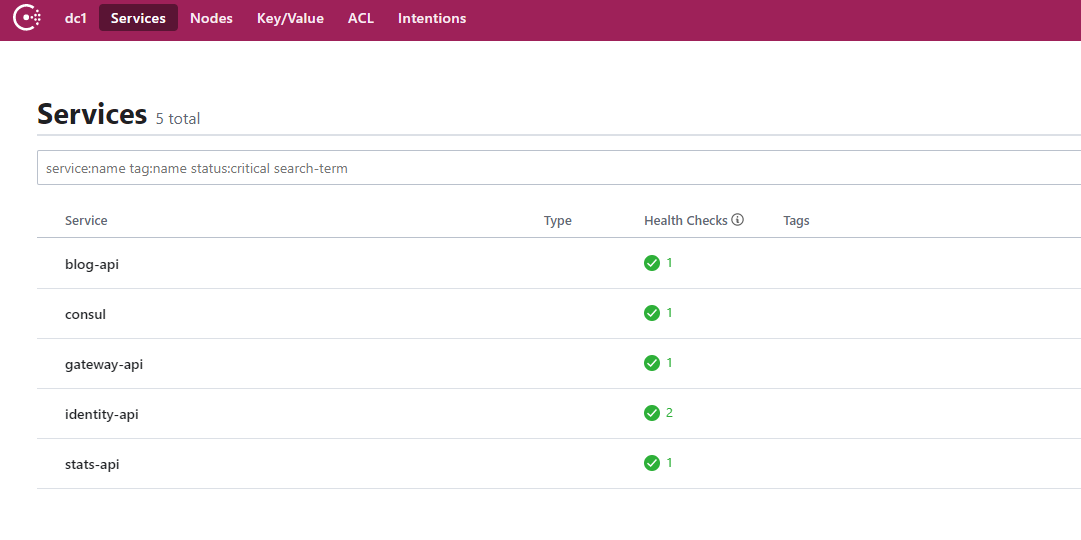
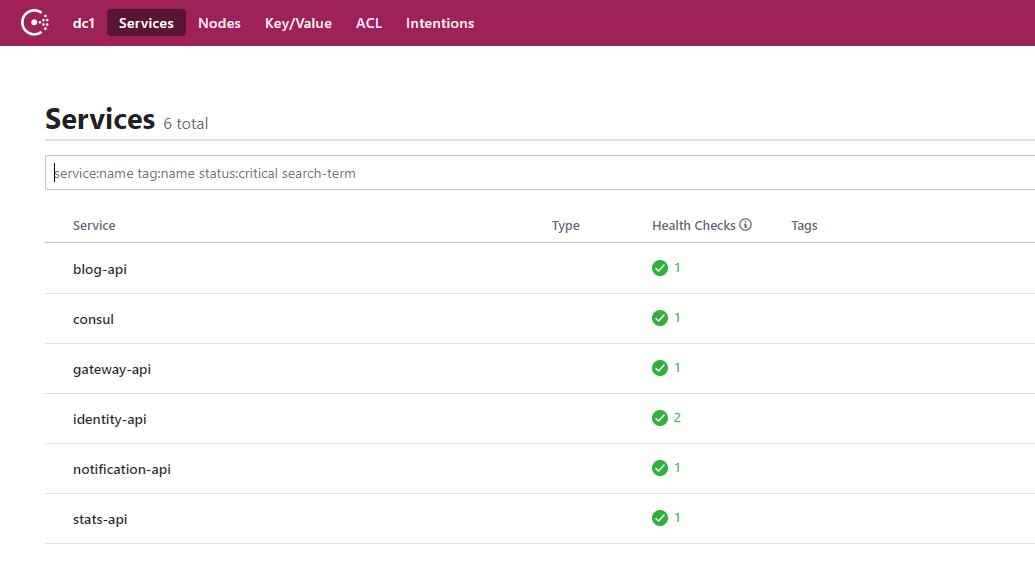
Consul is implemented to Notification.Api

diff --git a/Notification/Notification.Api/Startup.cs b/Notification/Notification.Api/Startup.cs
@@ -13,6 +13,8 @@ using Notification.Api.IntegrationEvents.EventHandlers;
 using Notification.Api.IntegrationEvents.Events;
 using Notification.Application.Modules;
 using Notification.Api.IntegrationEvents;
+using BlogSolution.Consul;
+using Consul;
 
 namespace Notification.Api
 {
@@ -24,6 +26,7 @@ namespace Notification.Api
         }
 
         public IConfiguration Configuration { get; }
+        public IContainer Container { get; private set; }
 
         // This method gets called by the runtime. Use this method to add services to the container.
         public IServiceProvider ConfigureServices(IServiceCollection services)
@@ -43,15 +46,18 @@ namespace Notification.Api
             services.AddIntegrationServices();
             services.AddEventBus();
             services.AddEventHandlers();
+            services.AddServiceDiscovery();
             var builder = new ContainerBuilder();
             builder.Populate(services);
             builder.AddMail();
             builder.RegisterModule(new ApplicationModule());
-            return new AutofacServiceProvider(builder.Build());
+            Container = builder.Build();
+            return new AutofacServiceProvider(Container);
         }
 
         // This method gets called by the runtime. Use this method to configure the HTTP request pipeline.
-        public void Configure(IApplicationBuilder app, IHostingEnvironment env)
+        public void Configure(IApplicationBuilder app, IHostingEnvironment env,
+            IApplicationLifetime applicationLifetime, IConsulClient consulClient)
         {
             if (env.IsDevelopment())
             {
@@ -64,6 +70,13 @@ namespace Notification.Api
             app.UseAuthentication();
             app.UseMvc();
             ConfigureEventBus(app);
+            var serviceId = app.UseConsulRegisterService();
+
+            applicationLifetime.ApplicationStopped.Register(() =>
+            {
+                consulClient.Agent.ServiceDeregister(serviceId);
+                Container.Dispose();
+            });
         }
 
         private void ConfigureEventBus(IApplicationBuilder app)
